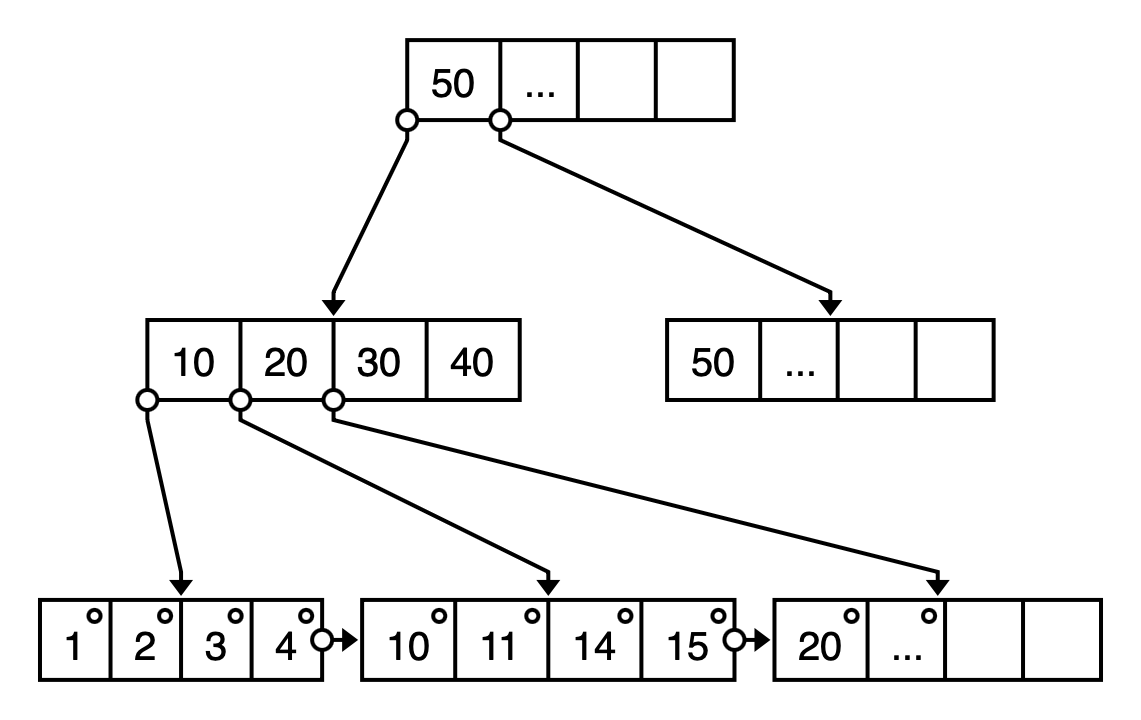
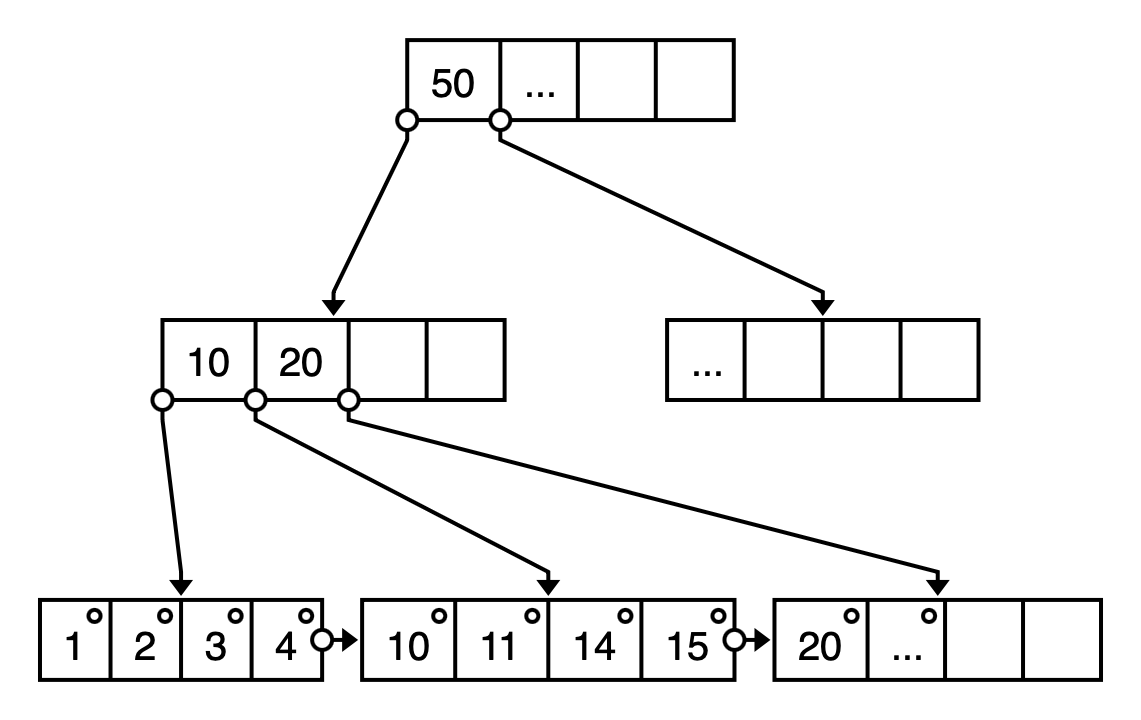
Add lec17 B+ tree clarifications to lec16 notes

diff --git a/16 B+ Trees (Continued).md b/16 B+ Trees (Continued).md
@@ -1,5 +1,9 @@
 # 2025-05-22/Lecture 16: B+ Trees Continued
 
+> [!NOTE]
+>
+> Some of the content regarding B+ tree [insertion](#inserting-into-a-b-tree) and [deletion](#deleting-from-a-b-tree) was clarified in **2025-05-27/Lecture 17**, but I just included/updated the existing notes here for those topics.
+
 ## Lecture Quiz
 
 ### Question 1
@@ -184,15 +188,13 @@ $(y, z)$ starts as a non-ear, but after removing the ear $(z, w)$, it turns $(y,
 
 </details>
 
-## B+ Trees (Continued)
+## B+ Tree Node Structure
 
-Last lecture, we introduced the **B+ tree**, which is actually an extension of the **B tree** data structure specialized for database applications. In a B+ tree, we only store table keys in the **leaf nodes** and also connect the leaf nodes as a linked list.
+Last lecture, we introduced the **B+ tree**, which is actually an extension of the **B-tree** data structure specialized for database applications. In a B+ tree, we only store table keys in the **leaf nodes** and also connect the leaf nodes as a linked list.
 
 > [!WARNING]
 >
-> From here on out, Professor may use B tree and B+ tree interchangeably. Know that he's always referring to B+ trees unless specified otherwise.
-
-### Node Structure
+> From here on out, Professor may use B-tree and B+ tree interchangeably. Know that he's always referring to B+ trees unless specified otherwise.
 
 Internal nodes store **node keys**. These values encode *ranges* of table keys that their subtrees ultimately contain at their leaves.
 
@@ -224,7 +226,9 @@ There are $4 + 1 = 5$ pointers. From left to right, they direct to subtrees with
 - $30 \le k < 40$
 - $k \ge 40$
 
-Remember that the intervals are closed on the lower end and open on the upper end.
+> [!WARNING]
+>
+> Remember that the intervals are **closed** on the **lower** end and **open** on the **upper** end.
 
 **Leaf nodes** instead store a pointer per table key, namely to the actual record associated with the table key.
 
@@ -232,8 +236,10 @@ Other important properties:
 
 - All keys within a B+ tree node are **sorted**.
 - A B+ tree by nature is **balanced**. All leaves are always at the same level.
+- All node keys occupying an internal node must have pointers on *both* sides of it (for example, we can't have something like a $20$ and a pointer to the left of it but no pointer to the right of it).
+- In practice, we align the size of each node with the size of data we read from disk, which is typically in units of **pages**. Thus the capacity of each node is set such that the entire node fits in one disk page.
 
-### Searching a B+ Tree
+## Searching a B+ Tree
 
 Searching a B+ tree is very similar in nature to searching a **binary search tree (BST)** in that we compare the queried value $k$ to the current node to decide which pointer to follow. In the case of a B+ tree internal node, we have multiple node keys to test. Because they are stored in sorted order, we can simply sweep the node keys until we reach one that is $\ge k$. We then follow the pointer that sits just before that node key (or use the last pointer if $k$ happens to be $\ge$ every node key).
 
@@ -247,21 +253,25 @@ For example, suppose we're searching for $k=12$ in this B+ tree:
 
 Leaf nodes store pointers to the actual records associated with the table keys, so if we want to retrieve the actual data for $k = 12$, we can now do that through the pointer.
 
+### Range Queries
+
 Notice that the sorted nature of the keys as well as the pointers between leaf nodes make **range queries** similarly easy to implement. Suppose we're interested in all keys in the range $[3, 13]$.
 
 1. We'll first traverse down the tree as outlined above to locate $k = 3$. Then, we simply continue the linear scan down the leaf node to collect $k = 4 \le 13$.
 2. We still have leaf nodes left and have not reached our upper bound $13$ yet, so we can follow the horizontal pointer to the next leaf node and continue our linear scan. We collect $k = 10, 11, 12, 13 \le 13$. Now at this point, we can stop.
 3. We've found the keys $\lbrace 3, 4, 10, 11, 12, 13 \rbrace \in [3, 13]$. If we want the data associated with those keys, we can access them through the stored pointers.
 
-### Inserting into a B+ Tree
+## Inserting into a B+ Tree
 
 Insertion is a lot more involved because of the tricky invariants we need to maintain at all times in the B+ tree. Namely, every node has a *fixed* length (capacity), and parent node keys have to be kept in lock step with their children key ranges.
 
-There are two cases we'll consider:
+There are three cases we'll consider:
 
-**CASE I:** "Just insert". We traverse down the B+ tree to the correct leaf node, and if the node still has vacancy *and* the key belongs after all the other existing keys in the node, just insert that key in the first vacant slot.
+### CASE I: Just Insert
 
-Suppose we want to insert $k=14$ into this B+ tree:
+We traverse down the B+ tree to the correct leaf node, and if the node still has vacancy, just insert that key into the node.
+
+Suppose we want to insert $k=14$ into this (abbreviated, note the missing pointers) B+ tree:
 
 ![](assets/lec16/b+tree_insertion_case1_before.png)
 
@@ -269,13 +279,15 @@ We would simply insert it right after $11$ in its leaf node:
 
 ![](assets/lec16/b+tree_insertion_case1_after.png)
 
-**CASE II:** If the correct leaf node is already at capacity:
+### Case II: Splitting a Leaf at Capacity
+
+If the correct leaf node is already at capacity:
 
 1. We first pretend to insert $k$ anyway, "overflowing" it.
 2. We then *split* the leaf node into two halves. The existing leaf node just drops the greater half of its keys, keeping the lesser half. The greater half of the keys get assigned to a newly allocated leaf node (with the original node connecting to the new node to close the linked list).
-3. Update the parent. Shift over its keys & pointers and insert the lower bound of the new node as the key for the new vacancy, directing a new pointer down to the new node. If the parent is already full, recurse: treat the insertion into the parent node as its own Step 1&mdash;pretend to overflow it and follow the same splitting algorithm. If this recurses all the way up to the root, a new root may be created.
+3. Update the parent. Shift over its keys & pointers and insert the lower bound of the new node as the key for the new vacancy, directing a new pointer down to the new node.
 
-Suppose we want to insert $k=16$ into this B+ tree:
+Suppose we want to insert $k=16$ into this (abbreviated, note the missing pointers) B+ tree:
 
 ![](assets/lec16/b+tree_insertion_case2_before.png)
 
@@ -289,43 +301,101 @@ We then split the node into halves and connect them:
 
 Pretend that the `|-->|` in the middle of the leaf node represents a splitting into two leaf nodes and a pointer connecting them. I can't draw them as separate nodes or the online tool will automatically connect parent pointers, which we haven't gotten to yet.
 
-We now need to update the parent because we have a new node with table keys $(14, 15, 16)$ that needs a pointer down to it. Namely, the parent should have a pointer just after a new node key of $14$, since the new node contains values $\ge 14$. In this case, the parent is already at capacity, so we'll recurse: pretend to insert $14$, overflowing it:
+We now need to update the parent because we have a new node with table keys $(14, 15, 16)$ that needs a pointer down to it. Namely, the parent should have a pointer just after a new node key of $14$, since the new node contains values $\ge 14$. We can fix this by copying that lower bound $14$ and inserting it into the parent:
 
-![](assets/lec16/b+tree_insertion_case2_parent_overflow.png)
+![](assets/lec16/b+tree_insertion_case2_parent_insertion.png)
 
-Then split it and update *their* parent (this time, the parent has vacancy, so the insertion does not cause further recursing):
+Or more generally:
 
-![](assets/lec16/b+tree_insertion_case2_parent_update.png)
+> [!IMPORTANT]
+>
+> When splitting a **leaf node**, copy the leftmost key of the new node and insert it into the parent.
 
-### Deleting from a B+ Tree
+### Case III: Splitting a Leaf at Capacity with Parent at Capacity
+
+Note that this is really just a generalization of [**Case II**](#case-ii-splitting-a-leaf-at-capacity).
+
+Now what happens if we follow [**Case II**](#case-ii-splitting-a-leaf-at-capacity) but then the *parent* is also at capacity? We treat it like an insertion on the parent node, which we will then recursively split to resolve overflows. However, when splitting an **internal node**, we follow a slightly different algorithm:
+
+> [!IMPORTANT]
+>
+> When splitting an **internal node**, *don't* copy any keys; instead, *promote* the midpoint into its parent.
+>
+> Note that this process is recursive: if the internal node's parent is also at capacity, we repeat. If this reaches the root node, we can ultimately *create a new root* for the promoted value.
+
+Suppose we want to insert $k=16$ into this (abbreviated, note the missing pointers) B+ tree:
+
+![](assets/lec16/b+tree_insertion_case3_before.png)
+
+First we pretend to insert $k=16$ anyway, then split the node, then copy $14$ up into the parent like we did [before](#case-ii-splitting-a-leaf-at-capacity):
+
+![](assets/lec16/b+tree_insertion_case3_leaf_split.png)
+
+The parent node is currently overflowing, so we need to split it as well. This time, we'll split it into *three* parts: a lesser half, the midpoint key, and the greater half. We keep the two halves around (which become siblings) and promote the midpoint ($20$ in this case) up into the grandparent:
+
+![](assets/lec16/b+tree_insertion_case3_parent_split.png)
+
+Convince yourself this B+ tree still upholds its invariants. All nodes are at least half capacity, and all pointers point to subtrees with keys in their ranges.
+
+### ASIDE: Why Promote Instead of Copy When Splitting Internal Nodes
+
+If you're curious about why we need to promote instead of copy, see the discussion on Ed #107. Basically, when we just split internal nodes without moving up one of its keys, it leaves the tree in an invalid state. Consider this example where we need to insert a new leaf node lower bound of $14$ into a parent node of $(10, 20, 30, 40)$. Suppose we just split the internal node into $(10, 14)$ and $(20, 30, 40)$:
+
+![](assets/lec16/b+tree_invalid_state.png)
+
+Notice how there's no way to arrange our pointers such that they make sense. If we connect the node to the left of $20$ (the edge with an X on it) to the $(20, ...)$ leaf node, it would be invalid because such a pointer needs keys $< 20$, and $20 \ge 20$. If we instead use the pointer to the right of $20$ (the red edge), the pointer itself would be correct, but then our internal node would be missing a pointer on its left edge. [Recall](#b-tree-node-structure) that node keys must have pointers on *both* sides of them.
+
+This is caused by the fact that we've introduced one "extra" pointer in the internal node layer. Splitting up the node exposes an "edge" on the key that ends up as the leftmost key in the new node, and that edge requires a new pointer. To fix this, we need to instead send that conflicting key somewhere else. Where? We can just send it *upwards*. Hence, we get the algorithm described earlier.
+
+## Deleting from a B+ Tree
 
 Deletion is similarly involved because of the aforementioned invariants but also the one where every node needs to be at least half full at all times.
 
-We consider three cases:
+We'll consider three cases:
 
-**CASE I:** "Just delete". If deleting an entry would *not* cause a node to go below half its capacity, just delete it, and you're done.
+### Case I: Just Delete
+
+If deleting an entry would *not* cause a node to go below half its capacity, just delete it, and you're done.
 
 For example, we can simply delete $k=16$ from its node here:
 
 ![](assets/lec16/b+tree_deletion_case1.png)
 
-**CASE II:** If deleting *would* cause the node to fall below the capacity invariant, you "steal" from your neighbor.
+### Case II: Steal from Sibling
 
-For example, suppose we delete $k=11$ from this B+ tree:
+If deleting *would* cause the node to fall below the capacity invariant, you "steal" from an adjacent sibling.
+
+For example, suppose we delete $k=22$ from this B+ tree:
 
 ![](assets/lec16/b+tree_deletion_case2_before.png)
 
-The node would fall below half capacity, so we can "steal" $4$ from its left neighbor:
+The node would fall below half capacity, so we can "steal" $13$ from its left sibling:
 
 ![](assets/lec16/b+tree_deletion_case2_steal.png)
 
-But that also means we need to update the parent because the parent's node key needs to reflect the child's new lower bound:
+But that also means we need to update the parent because the parent's node key needs to reflect the child's new lower bound. Similarly to [insertion](#case-ii-splitting-a-leaf-at-capacity), we copy the new lower bound of the leaf node into the parent. However, instead of *inserting* that key, we *overwrite* the key that was already at that position (since we didn't create any new leaf nodes, just updated the current one):
 
 ![](assets/lec16/b+tree_deletion_case2_parent_update.png)
 
-Note that we can also steal from the leaf node's right neighbor if need be (also updating its parent pointer's associated key).
+### ASIDE: Steal from Your Siblings, Not Cousins
 
-**CASE III:** What if both neighbors would also fall below capacity if we steal from them? For insertion, the recursive chain reaction can be done in $\log(N)$ steps because it goes upwards into parent levels. If we were to chain react *horizontally* (among leaf nodes), it could take $\frac{N}{2} \in O(N)$ steps. This is no bueno. Instead, we can borrow the same principle from insertion, but in reverse this time. Like how we split in insertion, we can *merge* nodes together:
+> [!WARNING]
+>
+> Note that we use the term **sibling** instead of **neighbor**. Two nodes are **siblings** if they share the same **parent**. Two neighboring nodes are not necessarily siblings. They could be **cousins** instead.
+
+Why? Suppose we steal from a cousin instead. Starting with this B+ tree, we remove $k=22$:
+
+![](assets/lec16/b+tree_deletion_cousin_steal_before.png)
+
+Suppose we reach across to the cousin on the right, stealing $31$:
+
+![](assets/lec16/b+tree_deletion_cousin_steal_after.png)
+
+See a problem? Look up&mdash;even higher than the parents. The *root* has been invalidated (31 appears to the left of 30 now!). More generally, it will invalidate the cousins' [**lowest common ancestor**](https://en.wikipedia.org/wiki/Lowest_common_ancestor). Thus, stealing from a cousin is incorrect. Only steal from your siblings.
+
+### Case III: Both Siblings Are Also Broke
+
+What if both of your adjacent siblings would also fall below capacity if we steal from them? For insertion, the recursive chain reaction can be done in $\log(N)$ steps because it goes upwards into parent levels. If we were to chain react *horizontally* (among leaf nodes), it could take $\frac{N}{2} \in O(N)$ steps. This is no bueno. Instead, we can borrow the same principle from insertion, but in reverse this time. Like how we split in insertion, we can analogously *merge* nodes together:
 
 1. Delete the key.
 2. Then merge the leaf node with its neighbor.
@@ -333,21 +403,53 @@ Note that we can also steal from the leaf node's right neighbor if need be (also
 
 Note that this case is only taken if the nodes involved are already at half capacity, so merging the nodes is always valid (it won't cause the newly merged node to overflow; the invariants are maintained).
 
-For example, suppose we want to remove $k=11$ from this B+ tree:
+For example, suppose we want to remove $k=21$ from this B+ tree:
 
 ![](assets/lec16/b+tree_deletion_case3_before.png)
 
-We can't steal from either neighbor because they're already at half capacity. Let's first delete $11$ anyway. Then, *merge* the node with its left neighbor:
+We can't steal from either sibling because they're already at half capacity. Let's first delete $21$ anyway. Then, *merge* the node with its left sibling:
 
-![](assets/lec16/b+tree_deletion_case3_merge.png)
+![](assets/lec16/b+tree_deletion_case3_leaf_merge.png)
 
-Notice that the parent's node key is now outdated&mdash;the node key $10$ implies that all table keys below the leftmost pointer are $< 10$, but that's no longer true because we now have table key $10$ from the merge. We update the parent by deleting that node key as well and shifting over the node keys:
+Notice that the parent's node key is now outdated&mdash;the node key $13$ implies that all table keys below the leftmost pointer are $< 13$, but that's no longer true because we now have table key $13$ from the merge. The pointer to the right of the node key is now also missing/dangling. We fix the parent by just deleting that node key as well:
 
-![](assets/lec16/b+tree_deletion_case3_parent_update.png)
+![](assets/lec16/b+tree_deletion_case3_parent_delete.png)
 
-Finally, as an exercise: what happens if that causes the parent node to itself fall below half capacity? Think about how we can continue, considering how we handled it for [insertions](#inserting-into-a-b-tree).
+If the parent did not fall below half capacity, we would be done here. However, in this example, the parent node is now in an invalid state because it fell below half capacity. Similar to insertion, the solution is to repeat a similar process for internal nodes as well. That is, see if the internal node can *steal* a value to get back to half capacity. However, the rules are slightly different for them:
 
-### Online Tools for Visualization
+> [!IMPORTANT]
+>
+> Leaf nodes steal from adjacent **siblings**. Internal nodes steal from **parents**.
+
+The stealing from the parent is actually a **rotation**: keys move in a circular fashion within the local family (node, parent, sibling):
+
+1. Steal the leftmost value of the parent.
+2. Promote the leftmost value of the right sibling up into the parent to replace that stolen value.
+3. Move the pointer over from the right sibling.
+
+Before:
+
+![](assets/lec16/b+tree_deletion_case3_rotation_before.png)
+
+After:
+
+![](assets/lec16/b+tree_deletion_case3_rotation_after.png)
+
+Once again, convince yourself that this is still a valid B+ tree.
+
+Finally, if the sibling cannot afford to lose a key for the rotation, the internal nodes themselves need to merge. We didn't explicitly cover this case in lecture, but I encourage you to [try it out online](#online-tools-for-b-tree-visualization). It's a little tricky&mdash;analogous to how we need to promote a value to the parent when splitting internal nodes, we demote a value from the parent when merging internal nodes, which *could* ultimately *remove* (replace) the original root node.
+
+### ASIDE: How Do B+ Trees Stay Balanced Despite Insertions/Deletions?
+
+From Ed: How do we ensure the tree is balanced even throughout insertions and deletions?
+
+In short: The splitting and merging themselves are always done *horizontally*. The higher levels might need to split/merge themselves, but that's fine because they also do so within their level. Even if a new root node is created/deleted, the existing nodes still remain on the same level relative to each other.
+
+## Online Tools for B+ Tree Visualization
+
+> [!TIP]
+>
+> Me manually drawing and pasting the B+ trees above is a bit clunky and may not make the process completely clear. If you want a more interactive resource to visualize B+ tree optimizations, definitely check out the online tools I list here.
 
 From my post on Ed:
 
